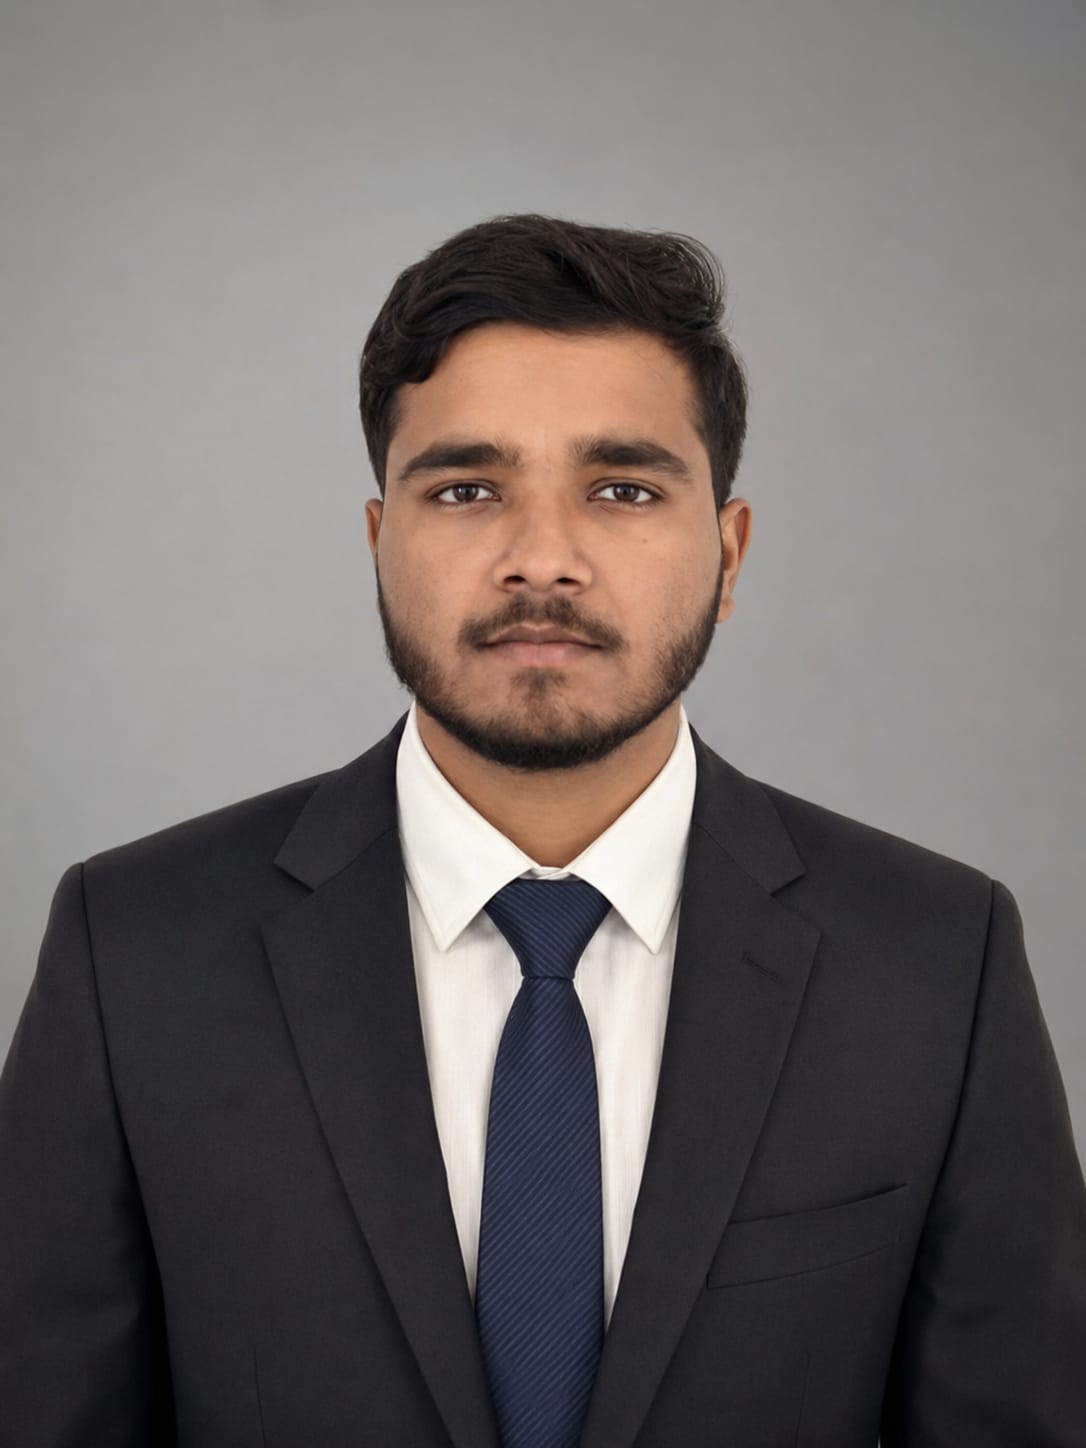
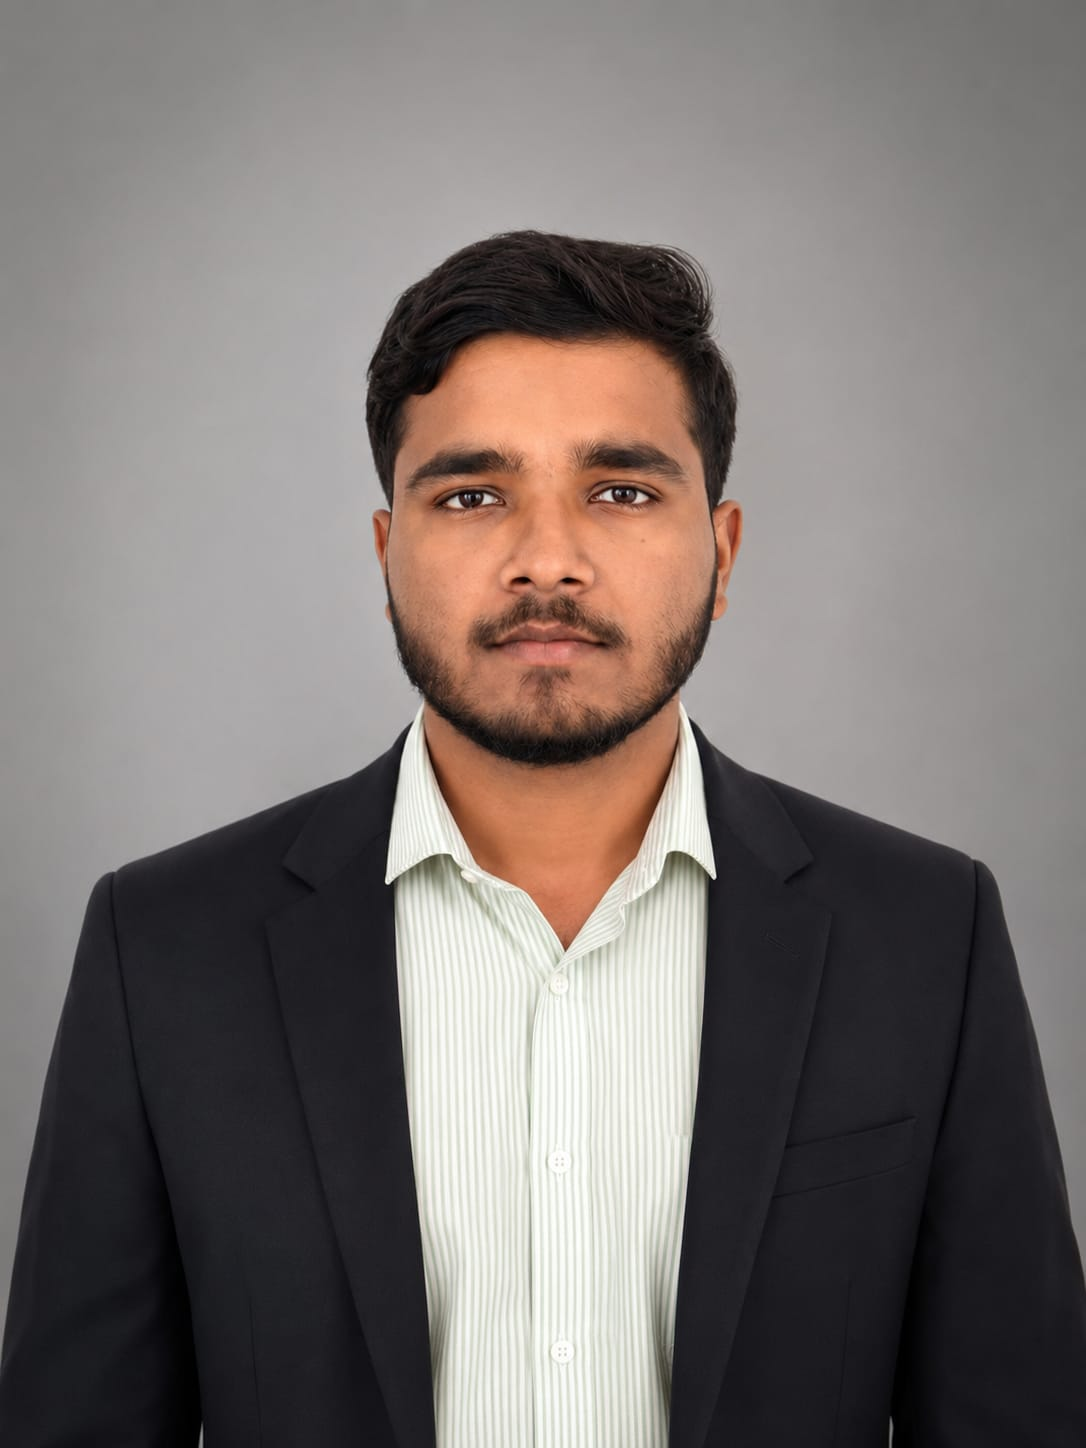
Initial comm

diff --git a/src/components/project-card.tsx b/src/components/project-card.tsx
@@ -42,15 +42,11 @@ export function ProjectCard({
 }: Props) {
   return (
     <Card
-      className={cn(
-        "group flex h-full flex-col overflow-hidden rounded-2xl border border-black/10 bg-white text-slate-900 shadow-sm transition-all duration-300 ease-out hover:shadow-lg dark:border-white/10 dark:bg-white/95",
-        className
-      )}
+      className={
+        "flex flex-col overflow-hidden border hover:shadow-lg transition-all duration-300 ease-out h-full"
+      }
     >
-      <Link
-        href={href || "#"}
-        className="block cursor-pointer"
-      >
+      <Link href={href || "#"} className={cn("block cursor-pointer", className)}>
         {video && (
           <video
             src={video}
@@ -58,48 +54,37 @@ export function ProjectCard({
             loop
             muted
             playsInline
-            className="pointer-events-none mx-auto aspect-[16/9] w-full object-cover object-top"
+            className="pointer-events-none mx-auto h-40 w-full object-cover object-top" // needed because random black line at bottom of video
           />
         )}
-        {image ? (
-          <div className="relative aspect-[16/9] w-full overflow-hidden bg-slate-100">
-            <Image
-              src={image}
-              alt={title}
-              fill
-              sizes="(min-width: 768px) 520px, 100vw"
-              className="object-cover object-top transition-transform duration-500 ease-out group-hover:scale-[1.02]"
-            />
-            <div className="pointer-events-none absolute inset-0 bg-gradient-to-t from-black/20 via-transparent to-transparent" />
-          </div>
-        ) : (
-          <div className="relative aspect-[16/9] w-full overflow-hidden bg-gradient-to-br from-slate-100 to-slate-200">
-            <div className="absolute inset-0 grid place-items-center">
-              <div className="rounded-full bg-white/70 px-3 py-1 text-xs font-semibold text-slate-700 shadow-sm">
-                Preview
-              </div>
-            </div>
-          </div>
+        {image && (
+          <Image
+            src={image}
+            alt={title}
+            width={500}
+            height={300}
+            className="h-40 w-full overflow-hidden object-cover object-top"
+          />
         )}
       </Link>
-      <CardHeader className="p-5 pb-3">
-        <div className="space-y-1.5">
-          <CardTitle className="mt-0 text-base leading-snug">{title}</CardTitle>
-          <time className="font-sans text-xs text-slate-500">{dates}</time>
+      <CardHeader className="px-2">
+        <div className="space-y-1">
+          <CardTitle className="mt-1 text-base">{title}</CardTitle>
+          <time className="font-sans text-xs">{dates}</time>
           <div className="hidden font-sans text-xs underline print:visible">
             {link?.replace("https://", "").replace("www.", "").replace("/", "")}
           </div>
-          <Markdown className="prose max-w-full text-pretty font-sans text-xs text-slate-600">
+          <Markdown className="prose max-w-full text-pretty font-sans text-xs text-muted-foreground dark:prose-invert">
             {description}
           </Markdown>
         </div>
       </CardHeader>
-      <CardContent className="mt-auto flex flex-col px-5 pb-3">
+      <CardContent className="mt-auto flex flex-col px-2">
         {tags && tags.length > 0 && (
-          <div className="mt-1 flex flex-wrap gap-1.5">
+          <div className="mt-2 flex flex-wrap gap-1">
             {tags?.map((tag) => (
               <Badge
-                className="px-2 py-0.5 text-[10px]"
+                className="px-1 py-0 text-[10px]"
                 variant="secondary"
                 key={tag}
               >
@@ -109,15 +94,12 @@ export function ProjectCard({
           </div>
         )}
       </CardContent>
-      <CardFooter className="px-5 pb-5 pt-0">
+      <CardFooter className="px-2 pb-2">
         {links && links.length > 0 && (
           <div className="flex flex-row flex-wrap items-start gap-1">
             {links?.map((link, idx) => (
               <Link href={link?.href} key={idx} target="_blank">
-                <Badge
-                  key={idx}
-                  className="flex gap-2 rounded-full border border-black/10 bg-white px-3 py-1 text-[10px] text-slate-800 hover:bg-slate-50 dark:border-black/10"
-                >
+                <Badge key={idx} className="flex gap-2 px-2 py-1 text-[10px]">
                   {link.icon}
                   {link.type}
                 </Badge>

diff --git a/src/app/page.tsx b/src/app/page.tsx
@@ -153,7 +153,7 @@ export default function Page() {
               </div>
             </div>
           </BlurFade>
-          <div className="mx-auto grid w-full max-w-none grid-cols-1 gap-8 md:grid-cols-2">
+          <div className="mx-auto grid w-full max-w-6xl grid-cols-1 gap-3 sm:grid-cols-2 lg:grid-cols-3">
             {DATA.projects.map((project, id) => (
               <BlurFade
                 key={project.title}
@@ -166,7 +166,8 @@ export default function Page() {
                   description={project.description}
                   dates={project.dates}
                   tags={project.technologies}
-                  image={project.image}
+                  // image={project.image}
+                  // video={project.video}
                   links={project.links}
                 />
               </BlurFade>